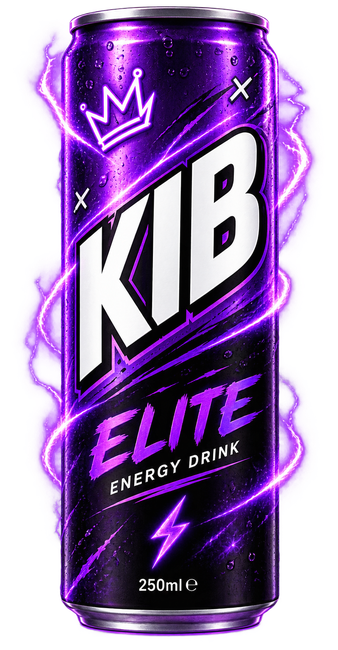
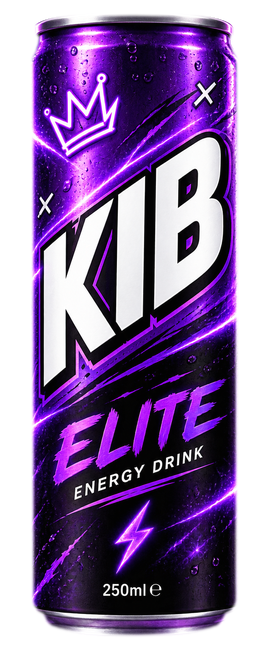
Shop: cans 40% smaller, Elite can without its lightning aura; For You in a phone column on PC; My home on Homes and Home; 2D swipe camera removed
- KIB cans on the Showroom: h-full (up to 440px) -> 60% (up to 264px); on a phone 581 -> 348px tall
- kib-elite.png/.webp: the purple lightning baked round the can masked out (the can's own shape, from the Basic can's outline); the shop's soft category light under every item is unchanged
- For You: centred 460px column on wide screens (same feed; phone unchanged)
- Homes category: "My home" (opens the 3D house) once a home is owned, "Buy a home to move in" before; Home screen: a "My home" link between Achievements and Sponsors
- Settings -> 2D match camera, lib/star/cam2dSwipe.ts and the swipe/lock code in CanvasMatch removed: the 2D match is as before b06c720

Claude-Session: https://claude.ai/code/session_01HiFCSUdTabvLjsTaGfTQAK

diff --git a/components/star/CanvasMatch.tsx b/components/star/CanvasMatch.tsx
@@ -202,7 +202,6 @@ import { spriteKickStrikeT, keeperDiveClip, spriteClipReady, spriteClipFps, spri
 import { outfieldSpriteClip, keeperDiveClipNew, keeperStandingClip, keeperGetUpT, sideOfDive } from "@/lib/star/sprite3dAnim";
 import { POST_L, POST_R } from "@/lib/star/pitch";
 import { cameraTilt, tiltFor, tiltCss, screenToCanvas, canvasToScreen, type Tilt } from "@/lib/star/cameraTilt";
-import { cam2dSwipeOn, useCam2dSwipe } from "@/lib/star/cam2dSwipe";
 import { showYouFigure, matchBallLook, useMatchPlayersLook, matchPlayersLook } from "@/lib/star/newLook";
 import { drawMatchBall } from "@/lib/star/matchBall";
 
@@ -2268,45 +2267,7 @@ export default function CanvasMatch({ skills = { power: 55, technique: 55 }, can
    *  3 Oct 2026: "I don't think the 20 degrees should apply to the
    *  crosses/byline and corners") — they are watched side-on, then cut. */
   const tiltForChance = (sc: Scenario | null | undefined): number =>
-    sc && (sc.kind === "corner" || sc.kind === "byline_cross" || (sc.facing ?? "up") !== "up") ? 0
-      : cam2dSwipeOn() && cam2dLockRef.current.on ? cam2dLockRef.current.tilt : tiltSettingRef.current;
-  /** THE 2D CAMERA SWIPE + LOCK (Harry, 13 Oct 2026, after the 3D one: "carrying the same tech over
-   *  to 2d"). While aiming, a drag up or down on open grass (not the ball, not a team-mate) leans the
-   *  camera: up = more lean (lower, see further up the pitch), down = flatter, 0–CAM2D_MAX_DEG. A double
-   *  tap on open grass puts the angle back to the Settings one. The video-camera button locks it: the
-   *  angle you left it at is kept every chance and swipes leave the camera alone. Flat chances (corners,
-   *  byline crosses, side-on) stay flat. No side-to-side slide in 2D: the frame IS the chance, there is
-   *  nothing outside it to slide to (see "there is nothing out there to pan to" below). Only real
-   *  touches: the 3D view's forwarded ones (isTrusted false) never move the 2D camera. */
-  const CAM2D_MAX_DEG = 35;
-  const cam2dLockRef = useRef<{ on: boolean; tilt: number }>((() => {
-    try { const v = JSON.parse(localStorage.getItem("star-cam2d-lock") || "null"); return v && v.on ? { on: true, tilt: Math.max(0, Math.min(CAM2D_MAX_DEG, +v.tilt || 0)) } : { on: false, tilt: 0 }; } catch { return { on: false, tilt: 0 }; }
-  })());
-  const [cam2dLocked, setCam2dLocked] = useState(() => cam2dLockRef.current.on);
-  const cam2dSwipe = useCam2dSwipe(); // Settings → 2D match camera → Swipe camera (off by default)
-  const cam2dGestRef = useRef<{ id: number; x0: number; y0: number; deg0: number; tilting: boolean } | null>(null);
-  const cam2dTapRef = useRef({ t: 0, x: 0, y: 0 });
-  const cam2dCanTilt = () => tiltForChance(scenarioRef.current) > 0 || (scenarioRef.current && scenarioRef.current.kind !== "corner" && scenarioRef.current.kind !== "byline_cross" && (scenarioRef.current.facing ?? "up") === "up");
-  const startCam2dGesture = (e: React.PointerEvent) => {
-    if (!cam2dSwipeOn() || !e.nativeEvent.isTrusted || !newViewRef.current || !cam2dCanTilt()) return;
-    const now = performance.now(), tp = cam2dTapRef.current;
-    if (now - tp.t < 320 && Math.hypot(e.clientX - tp.x, e.clientY - tp.y) < 40) {
-      // the double tap: back to the Settings angle (a locked camera keeps that from now on)
-      cam2dTapRef.current = { t: 0, x: 0, y: 0 };
-      if (cam2dLockRef.current.on) { cam2dLockRef.current.tilt = tiltSettingRef.current; try { localStorage.setItem("star-cam2d-lock", JSON.stringify(cam2dLockRef.current)); } catch { /* private */ } }
-      applyTilt(tiltForChance(scenarioRef.current));
-      return;
-    }
-    if (cam2dLockRef.current.on) { cam2dTapRef.current = { t: now, x: e.clientX, y: e.clientY }; return; }
-    cam2dGestRef.current = { id: e.pointerId, x0: e.clientX, y0: e.clientY, deg0: tiltDegRef.current, tilting: false };
-    try { canvasRef.current?.setPointerCapture(e.pointerId); } catch { /* ignore */ }
-  };
-  const toggleCam2dLock = () => {
-    const on = !cam2dLockRef.current.on;
-    cam2dLockRef.current = { on, tilt: on ? tiltDegRef.current : 0 };
-    try { if (on) localStorage.setItem("star-cam2d-lock", JSON.stringify(cam2dLockRef.current)); else localStorage.removeItem("star-cam2d-lock"); } catch { /* private */ }
-    setCam2dLocked(on);
-  };
+    sc && (sc.kind === "corner" || sc.kind === "byline_cross" || (sc.facing ?? "up") !== "up") ? 0 : tiltSettingRef.current;
   /** Tip the canvas to `deg` (0 = flat) for its current size. */
   const applyTilt = (deg: number) => {
     tiltDegRef.current = deg;
@@ -7314,7 +7275,7 @@ export default function CanvasMatch({ skills = { power: 55, technique: 55 }, can
     // closer to a team-mate than to the ball never starts an aim-drag now,
     // even when it missed every hit-circle — better a missed order than an
     // accidental, badly-aimed kick.
-    if (ballD >= nearestCaptainCandidateDist(p)) { startCam2dGesture(e); return; }
+    if (ballD >= nearestCaptainCandidateDist(p)) return;
     // The grab zone round the ball: BALL_GRAB_FRACTION of the framed height
     // (28% let a drag start from a third of the screen away — Mikey, 28 Sep
     // 2026: "you're supposed to be able to start dragging only from the
@@ -7323,10 +7284,8 @@ export default function CanvasMatch({ skills = { power: 55, technique: 55 }, can
     // pitch faces (side-on it used to be a share of the width, about 64 px
     // against 100 px top-down — playtest, 3 Oct 2026). Classic is unchanged.
     if (ballD > sameOnScreenM((vp.y2 - vp.y1) * BALL_GRAB_FRACTION, BALL_GRAB_FRACTION, "height")) {
-      // Missed both a player and the ball: the 2D camera swipe / double tap (startCam2dGesture);
-      // otherwise nothing happens, exactly as
+      // Missed both a player and the ball — nothing happens, exactly as
       // before the armband existed.
-      startCam2dGesture(e);
       return;
     }
     draggingRef.current = true;
@@ -7338,16 +7297,6 @@ export default function CanvasMatch({ skills = { power: 55, technique: 55 }, can
     try { canvasRef.current?.setPointerCapture(e.pointerId); } catch { /* ignore */ }
   };
   const onPointerMove = (e: React.PointerEvent) => {
-    const cg = cam2dGestRef.current;
-    if (cg && e.pointerId === cg.id) {
-      const dx = e.clientX - cg.x0, dy = e.clientY - cg.y0;
-      if (!cg.tilting && Math.hypot(dx, dy) >= 10 && Math.abs(dy) > Math.abs(dx) * 1.2) cg.tilting = true;
-      if (cg.tilting) {
-        const h = canvasRef.current?.getBoundingClientRect().height || 1;
-        applyTilt(Math.max(0, Math.min(CAM2D_MAX_DEG, cg.deg0 - (dy / h) * 60)));
-      }
-      return;
-    }
     if (phaseRef.current === "tdDribble") {
       // Drag steers (your lane follows your thumb); a fast sideways flick knocks it past.
       const run = tdRef.current, tch = tdTouchRef.current, c = canvasRef.current;
@@ -7416,13 +7365,6 @@ export default function CanvasMatch({ skills = { power: 55, technique: 55 }, can
     }
   };
   const onPointerUp = (e: React.PointerEvent) => {
-    const cg = cam2dGestRef.current;
-    if (cg && e.pointerId === cg.id) {
-      cam2dGestRef.current = null;
-      try { canvasRef.current?.releasePointerCapture(e.pointerId); } catch { /* ignore */ }
-      if (!cg.tilting && Math.hypot(e.clientX - cg.x0, e.clientY - cg.y0) < 10) cam2dTapRef.current = { t: performance.now(), x: e.clientX, y: e.clientY };
-      return;
-    }
     if (nudgeDragRef.current) {
       // The swing stays where you left it; another drag carries on from there.
       nudgeDragRef.current = null;
@@ -8045,25 +7987,6 @@ export default function CanvasMatch({ skills = { power: 55, technique: 55 }, can
               {touchModeOn && <circle cx="12" cy="12" r="3" fill="currentColor" stroke="none" />}
             </svg>
             TOUCH
-          </button>
-        )}
-
-        {/* The 2D camera lock (cam2dLockRef above): top-left, clear of the commentary, the power-shot button and the
-            ball's pull room. Hidden while the 3D view is drawing (it has its own). */}
-        {cam2dSwipe && phase === "aim" && newViewRef.current && !replayOf && !(typeof document !== "undefined" && document.querySelector("[data-real3d] [data-cam-lock]")) && (
-          <button
-            type="button"
-            data-cam2d-lock
-            onClick={toggleCam2dLock}
-            aria-label={cam2dLocked ? "Camera locked: tap to unlock" : "Camera free: tap to lock this angle"}
-            className={`absolute top-2 left-2 z-30 pointer-events-auto flex h-10 w-10 items-center justify-center rounded-full border shadow-lg transition ${cam2dLocked ? "bg-yellow-400 border-yellow-200/60" : "bg-gray-950/60 border-white/35"}`}
-          >
-            <svg width="24" height="24" viewBox="0 0 24 24" fill="none" stroke={cam2dLocked ? "#422006" : "#ffffff"} strokeWidth="2" strokeLinecap="round" strokeLinejoin="round">
-              <rect x="2" y="7" width="13" height="10" rx="2" /><path d="M15 10.5l5-3v9l-5-3z" />
-              {cam2dLocked
-                ? (<><rect x="5" y="10.5" width="6" height="4.5" rx="0.8" fill="#422006" stroke="none" /><path d="M6.3 10.5V9.4a1.7 1.7 0 0 1 3.4 0v1.1" strokeWidth="1.5" /></>)
-                : <circle cx="8.5" cy="12" r="1.6" fill="#ef4444" stroke="none" />}
-            </svg>
           </button>
         )}
 

diff --git a/components/star/shop2d/ShowroomShop.tsx b/components/star/shop2d/ShowroomShop.tsx
@@ -60,6 +60,7 @@ import { listClips } from "@/lib/star/goalClip/store";
 import ForYouFeed, { type FeedEntry, type HighlightAd } from "./ForYouFeed";
 import { loadShopItemsView, saveShopItemsView, type ShopItemsView } from "@/lib/star/shopItemsView";
 import TrophyBadge from "./TrophyBadge";
+import { bestHome, homeNameOf } from "@/lib/star/home3d/homes";
 import { art, tierColour, rungName, LevelLadder, GiveChips, StoreSheet, GoldButton, ConfirmSheet, PurchaseMoment, type ConfirmInfo, type StoreTab } from "./parts";
 
 interface ActionResult { ok: boolean; reason?: string }
@@ -196,6 +197,9 @@ interface Props {
   levelMark?: "trophy" | "none";
   /** The Buy pill (12 Oct 2026): A = solid red; B = white with a gold price. Default "auto": Homes B, everything else A, so both can be compared in the real shop. Bench: &buy=A or &buy=B. */
   buyStyle?: "A" | "B" | "auto";
+  /** Your house in 3D (Harry, 13 Oct 2026: "There needs to be a place to go to my home"). On the Homes
+   *  category: "My home" once you own one; before that it says "Buy a home to move in". */
+  onOpenHome?: () => void;
 }
 
 const ItemLook = createContext<{ mark: "trophy" | "none"; buy: "A" | "B" | "auto" }>({ mark: "trophy", buy: "auto" });
@@ -214,7 +218,7 @@ export interface View {
   extra?: { label: string; disabled: boolean; run: () => void };
 }
 
-export default function ShowroomShop({ career, kind, onBack, onBuyKib, onBuyBoot, onBuyItem, onBuyFromBlackMarket, focus, onKind, onUseCan, onOpen3D, startCat, links, guideCorner = false, barOption = "A", levelMark = "trophy", buyStyle = "auto" }: Props) {
+export default function ShowroomShop({ career, kind, onBack, onBuyKib, onBuyBoot, onBuyItem, onBuyFromBlackMarket, focus, onKind, onUseCan, onOpen3D, startCat, links, guideCorner = false, barOption = "A", levelMark = "trophy", buyStyle = "auto", onOpenHome }: Props) {
   const bar = barOption;
   /** The bottom bar's two pages: For You (the TikTok feed) and Shop (the showroom). */
   const [tab, setTab] = useState<"foryou" | "shop">("shop");
@@ -410,7 +414,8 @@ export default function ShowroomShop({ career, kind, onBack, onBuyKib, onBuyBoot
       stats.push({ text: `Energy ${Math.round(career.energy ?? 0)}/100`, color: "rgba(255,255,255,.8)" });
       return {
         key, cat, title: c.name.replace(" KIB Can", ""), sub: "KIB Can", level: CAN_TIER[c.id], levels: 0,
-        pic: <KibCanIcon can={c} className="h-full max-h-[440px] w-auto" />,
+        // 40% smaller than it was (h-full, up to 440px): a can now reads about the size of a boot or a watch on its page (Harry, 13 Oct 2026: "way too big")
+        pic: <KibCanIcon can={c} className="h-[60%] max-h-[264px] w-auto" />,
         badges: [<Badge key="n" kind="blue">×{have} owned</Badge>, ...(waiting ? [<Badge key="w" kind="gold">Ready next match</Badge>] : [])],
         stats, locked: null,
         button: { label: can ? "Buy" : "Not enough", price, disabled: !can, run: () => askCan(c) },
@@ -652,6 +657,9 @@ export default function ShowroomShop({ career, kind, onBack, onBuyKib, onBuyBoot
       <div aria-hidden className="pointer-events-none absolute inset-0" style={{ background: "radial-gradient(90% 60% at 50% 42%, rgba(5,8,15,.25), rgba(5,8,15,.8) 75%), linear-gradient(180deg, rgba(5,8,15,.55), rgba(5,8,15,.35) 40%, rgba(5,8,15,.95) 85%)" }} />
 
       {tab === "foryou" ? (
+        // a phone-width column, centred, on a PC (Harry, 13 Oct 2026: "Is there no for you page on PC?" — full width it
+        // read as a stretched picture, not a feed); on a phone it is the whole screen as before
+        <div className="absolute inset-y-0 left-1/2 w-full max-w-[460px] -translate-x-1/2 min-[520px]:border-x min-[520px]:border-white/10 min-[520px]:shadow-[0_0_60px_rgba(0,0,0,.6)]" data-foryou-column>
         <ForYouFeed onAdShown={setAdShown} entries={feedEntries} viewOf={viewOf} ownLabel={ownLabel} ad={ad} needStars={needStars}
           onDetails={(c, k) => { if (viewOf(c, k).locked === null) openSheet(c, k); }}
           onSeeAll={(c, k) => {
@@ -659,6 +667,7 @@ export default function ShowroomShop({ career, kind, onBack, onBuyKib, onBuyBoot
             setIdx((a) => a.map((v, j) => (j === n ? Math.max(0, SHOWROOM_KEYS[c].indexOf(k)) : v)));
             setCi(n); setTab("shop");
           }} />
+        </div>
       ) : view === 5 ? (
         <div ref={list} data-shop-list={cat.id} className="sr-noscroll absolute inset-0 overflow-y-auto overflow-x-hidden"
           style={{ paddingTop: "calc(var(--sr-top) - 4px)", paddingBottom: BOTTOM_PAD, overscrollBehavior: "contain" }}>
@@ -803,6 +812,22 @@ export default function ShowroomShop({ career, kind, onBack, onBuyKib, onBuyBoot
         )}
       </div>
       </>}
+
+      {/* Homes: the way into your house (Harry, 13 Oct 2026) */}
+      {tab === "shop" && cat.id === "homes" && (
+        <div className="pointer-events-none absolute right-3 z-20 flex justify-end" style={{ top: "calc(var(--sr-top) + 2px)" }} data-shop-my-home>
+          {bestHome(career.ownedItems) && onOpenHome ? (
+            <button onClick={onOpenHome} data-open-home aria-label={`My home: ${homeNameOf(career.ownedItems)}`}
+              className="kib-press pointer-events-auto flex h-9 items-center gap-1.5 rounded-full bg-lime-300 px-3.5 text-[13px] font-black uppercase tracking-wide text-[#05080f] shadow-[0_6px_18px_-6px_rgba(163,230,53,.7)]">
+              <span className="text-[16px] leading-none">🏠</span>My home ›
+            </button>
+          ) : (
+            <span className="flex h-8 items-center gap-1.5 rounded-full bg-black/60 px-3 text-[11.5px] font-black uppercase tracking-wide text-lime-200 ring-1 ring-lime-300/40 backdrop-blur" data-no-home>
+              <span className="text-[14px] leading-none">🏠</span>Buy a home to move in
+            </span>
+          )}
+        </div>
+      )}
 
       {tab === "shop" && bar === "C" && (
         <div className="absolute inset-x-0 z-30 bg-gradient-to-t from-[#070b14] to-[#070b14]/70" style={{ bottom: `calc(${TAB_H}px + env(safe-area-inset-bottom))` }}>

diff --git a/components/star/HomeHub.tsx b/components/star/HomeHub.tsx
@@ -17,7 +17,7 @@
  *      — and reputation, fame, goals and assists beside you;
  *   4. the energy cans under you: Basic / Premium / Elite, each with Use and
  *      a price (v0.24, Harry's picture "A on a small phone").
- * Achievements and Sponsors are small links at the bottom. The 3D / 2D
+ * Achievements, My home and Sponsors are small links at the bottom. The 3D / 2D
  * switch is in Settings.
  *
  * Built from the design kit (components/star/ui). Motion: panels rise in when
@@ -40,6 +40,7 @@ import { nationKits } from "@/lib/star/international";
 import KibCanIcon from "./KibCanIcon";
 import { brandsOf } from "@/lib/star/sponsorDeals";
 import { isOpen } from "@/lib/star/unlocks";
+import { HOME3D_IN_CAREER } from "@/lib/star/home3d/flag";
 import { fameOf } from "@/lib/star/fame";
 import { useAvatarStyle } from "./PlayerAvatar";
 import { useFigureSkin } from "./FigureSkinToggle";
@@ -586,15 +587,23 @@ function MiddleLinks({ career, onOpen }: { career: CareerState; onOpen: Props["o
   const offers = brandsOf(career).offers.length;
   const showAch = isOpen(career, "achievements");
   const showSp = isOpen(career, "sponsors");
-  if (!showAch && !showSp) return null;
-  const text = "kib-press flex items-center gap-1 px-1 py-1 text-[11px] font-black uppercase leading-none tracking-wide text-white";
+  // Your house in 3D (Harry, 13 Oct 2026: "How do I actually access my home?"): always here.
+  const showHome = HOME3D_IN_CAREER;
+  if (!showAch && !showSp && !showHome) return null;
+  const text = "kib-press flex items-center gap-1 whitespace-nowrap px-1 py-1 text-[11px] font-black uppercase leading-none tracking-wide text-white";
   const shadow = { textShadow: "0 1px 3px rgba(0,0,0,.95), 0 0 6px rgba(0,0,0,.8)" };
   return (
     <div className="absolute bottom-1 left-1/2 z-20 flex -translate-x-1/2 items-center gap-1.5">
       {showAch && (
         <button type="button" data-tour="achievements" onClick={() => onOpen("achievements")} aria-label="Achievements" className={text} style={shadow}>
           <span className="text-[14px] leading-none">⭐</span>
-          <span className="max-[379px]:hidden">Achievements</span>
+          <span className="max-[439px]:hidden">Achievements</span>
+        </button>
+      )}
+      {showHome && (
+        <button type="button" data-home-my-home onClick={() => onOpen("home-3d")} aria-label="My home" className={text} style={shadow}>
+          <span className="text-[14px] leading-none">🏠</span>
+          My home
         </button>
       )}
       {showSp && (

diff --git a/components/star/DeviceSettings.tsx b/components/star/DeviceSettings.tsx
@@ -11,7 +11,6 @@ import { LOOK_ROWS, changedFromDefault, setLookRow, useLook, type LookRowId } fr
 import type { FullscreenSupport } from "./ImmersiveToggle";
 import { SegTabs } from "./screenKit";
 import { SetCard, SetNote, SetSection, SetToggle } from "./settingsKit";
-import { useCam2dSwipe, setCam2dSwipeOn } from "@/lib/star/cam2dSwipe";
 import Quality3dRow from "./Quality3dRow";
 
 /**
@@ -222,17 +221,6 @@ function World3dGroup() {
   );
 }
 
-/** The 2D match camera (lib/star/cam2dSwipe.ts): the swipe camera, off by default. */
-function Match2dCamGroup() {
-  const on = useCam2dSwipe();
-  return (
-    <>
-      <SetToggle label="Swipe camera" on={on} onClick={() => setCam2dSwipeOn(!on)} last />
-      <p className="px-3 pb-2 text-[11px] text-white/70">On: in the 2D match, swipe up or down on open grass to lean the camera, double tap to put it back, and the video-camera button to lock your angle. A drag from the ball always kicks.</p>
-    </>
-  );
-}
-
 /** Screens: Old UI or New UI. */
 function ScreensGroup() {
   const look = useLook();
@@ -269,7 +257,6 @@ export function SettingsGroups({ glow, extra = [], inMatch = false }: { glow: st
   const groups: (ExtraGroup & { card?: boolean })[] = [
     { id: "match", title: "Match", sub: "Keepers, testing (v0.15), 2D or 3D, names", count: 9, content: <MatchGroup />, card: true },
     { id: "world", title: "3D match camera", sub: "Zoom and camera height", count: 2, content: <World3dGroup />, card: true },
-    { id: "cam2d", title: "2D match camera", sub: "Swipe camera (off by default)", count: 1, content: <Match2dCamGroup />, card: true },
     { id: "screens", title: "Screens", sub: "Old UI or New UI", count: 1, content: <ScreensGroup />, card: true },
     ...extra,
   ];

diff --git a/components/star/shop2d/ShopLabPreview.tsx b/components/star/shop2d/ShopLabPreview.tsx
@@ -80,7 +80,7 @@ export default function ShopLabPreview({ kind, look, onBack, cat, bar = "A", dem
   const back = kind === "landing" && look !== "new" ? () => setPage("landing") : onBack;
   if (look === "new") {
     return <ShowroomShop career={career} kind={tab} onKind={setTab} onBack={back} startCat={cat} barOption={bar} levelMark={mark} buyStyle={buy}
-      onBuyKib={buyKib} onBuyBoot={buyBoot} onBuyItem={buyItem} onBuyFromBlackMarket={black} onUseCan={useCan} onOpen3D={() => {}}
+      onBuyKib={buyKib} onBuyBoot={buyBoot} onBuyItem={buyItem} onBuyFromBlackMarket={black} onUseCan={useCan} onOpen3D={() => {}} onOpenHome={() => alert("My home")}
       guideCorner links={[
         { id: "sponsors", icon: "🤝", label: "Sponsors", locked: true, onClick: () => {} },
         { id: "casino", icon: "🎰", label: "Casino", onClick: () => {} },

diff --git a/app/star-dev/page.tsx b/app/star-dev/page.tsx
@@ -4522,6 +4522,7 @@ function StarDevInner({ immersive }: { immersive: ReturnType<typeof useImmersive
             onKind={(k) => { const to = k === "kib" ? "shop-kib" : k === "boots" ? "shop-boots" : "shop-lifestyle"; lastShowroom.current = to; setPhase(to); }}
             onUseCan={handleUseCan}
             onOpen3D={() => { setShopAtDoor(false); setPhase("shop-3d"); }}
+            onOpenHome={HOME3D_IN_CAREER ? () => { setHomeFromGarden(false); setPhase("home-3d"); } : undefined}
           />
         ) : (
         <Shop

diff --git a/lib/star/three3d/assetVersions.ts b/lib/star/three3d/assetVersions.ts
@@ -145,8 +145,8 @@ export const ASSET_VERSIONS: Record<string, string> = {
   "/star/kane-moments.json": "42c04f7f",
   "/star/kib-basic.png": "9f9e8526",
   "/star/kib-basic.webp": "3b122b84",
-  "/star/kib-elite.png": "e3b08281",
-  "/star/kib-elite.webp": "04679247",
+  "/star/kib-elite.png": "cb295091",
+  "/star/kib-elite.webp": "0bb1c12a",
   "/star/kib-premium.png": "f4fc3319",
   "/star/kib-premium.webp": "f9b09cd7",
   "/star/look/lut-day.png": "18d8aacc",
